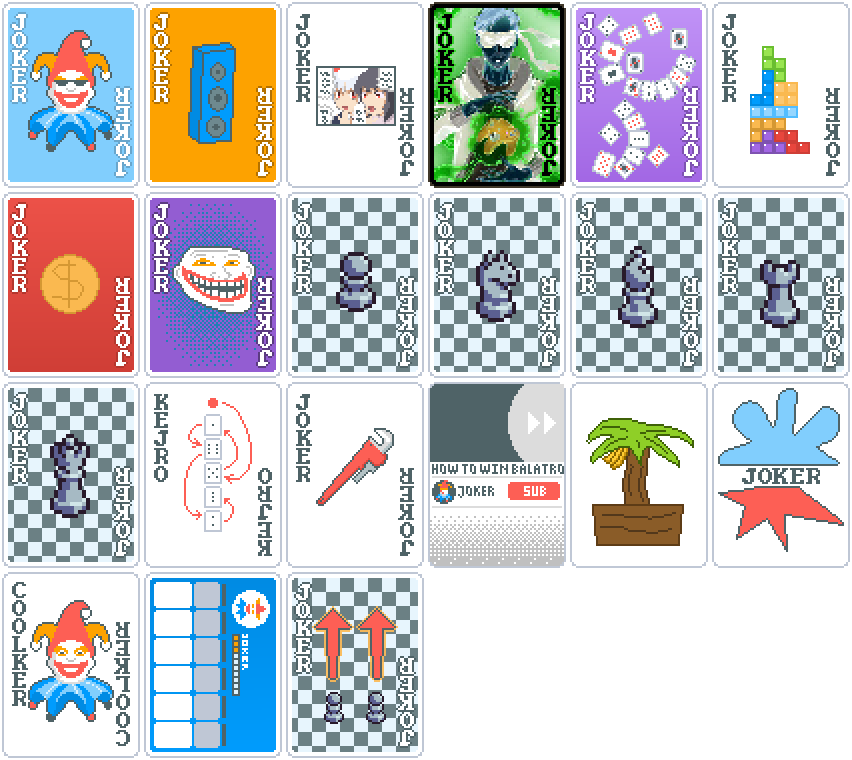
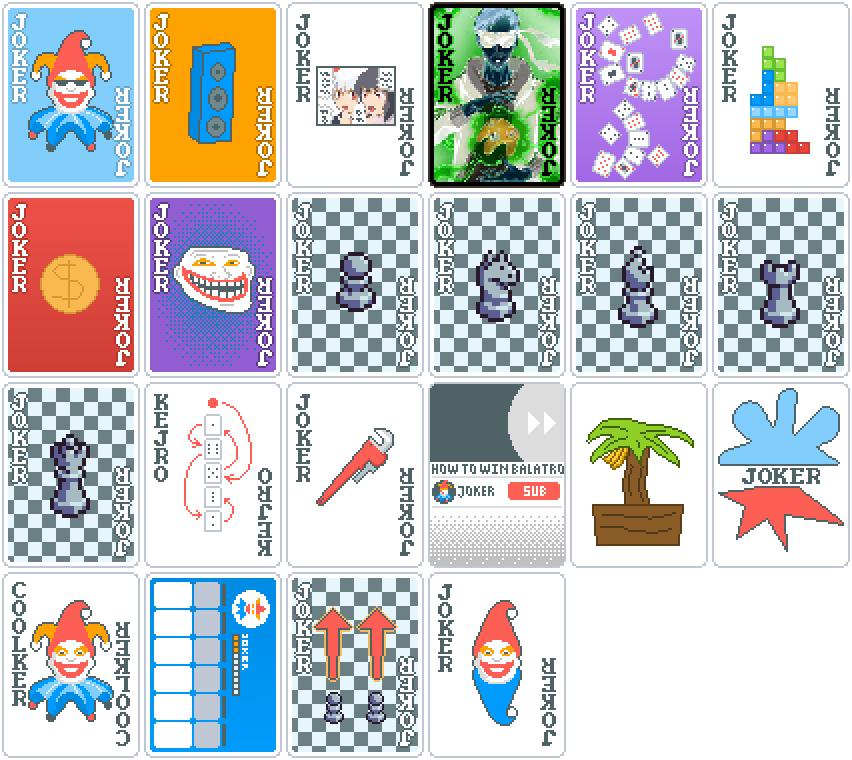
feat: add schmeven joker

Changed region(s): [[0.4883, 0.7566, 0.6714, 0.9987], [0.4883, 0.9684, 0.5188, 0.9987]]

diff --git a/site/src/jokers.ts b/site/src/jokers.ts
@@ -263,5 +263,15 @@ const jokers = [
     badge: "uncommon",
     image: "j_pawn_storm",
   },
+  {
+    name: "Schmeven",
+    text: [
+      "Played cards with",
+      "{C:attention}schmeven{} rank give",
+      "{X:mult,C:white}X1.5{} Mult when scored",
+    ],
+    badge: "uncommon",
+    image: "j_schmeven",
+  },
 ];
 export { jokers };
